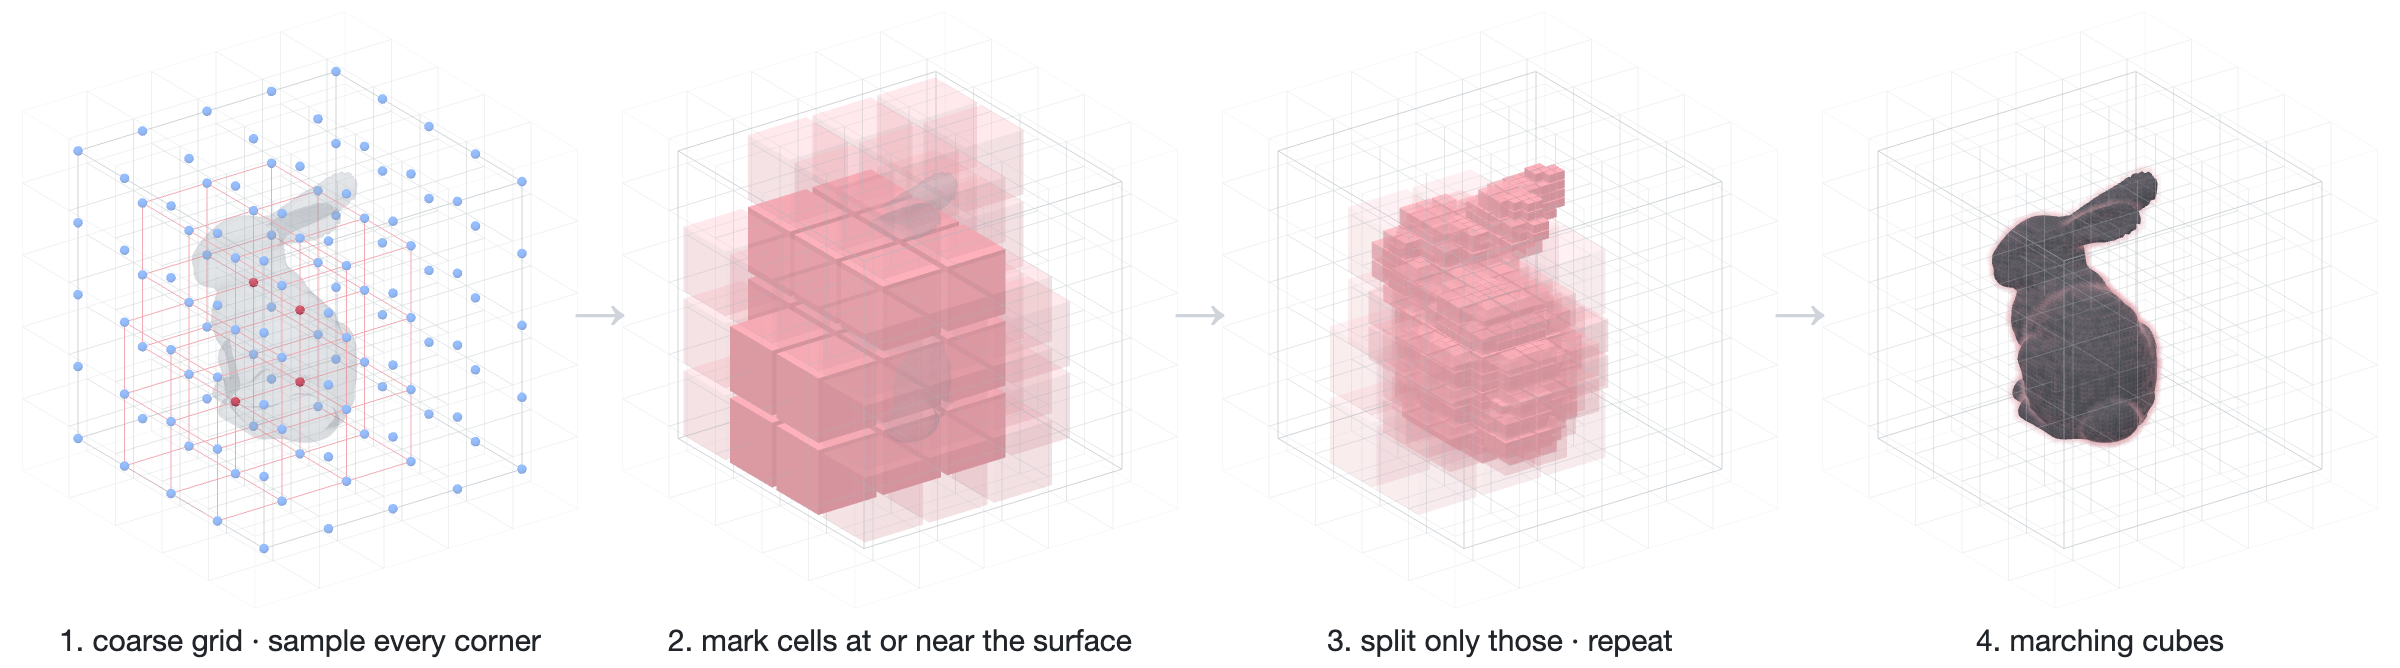
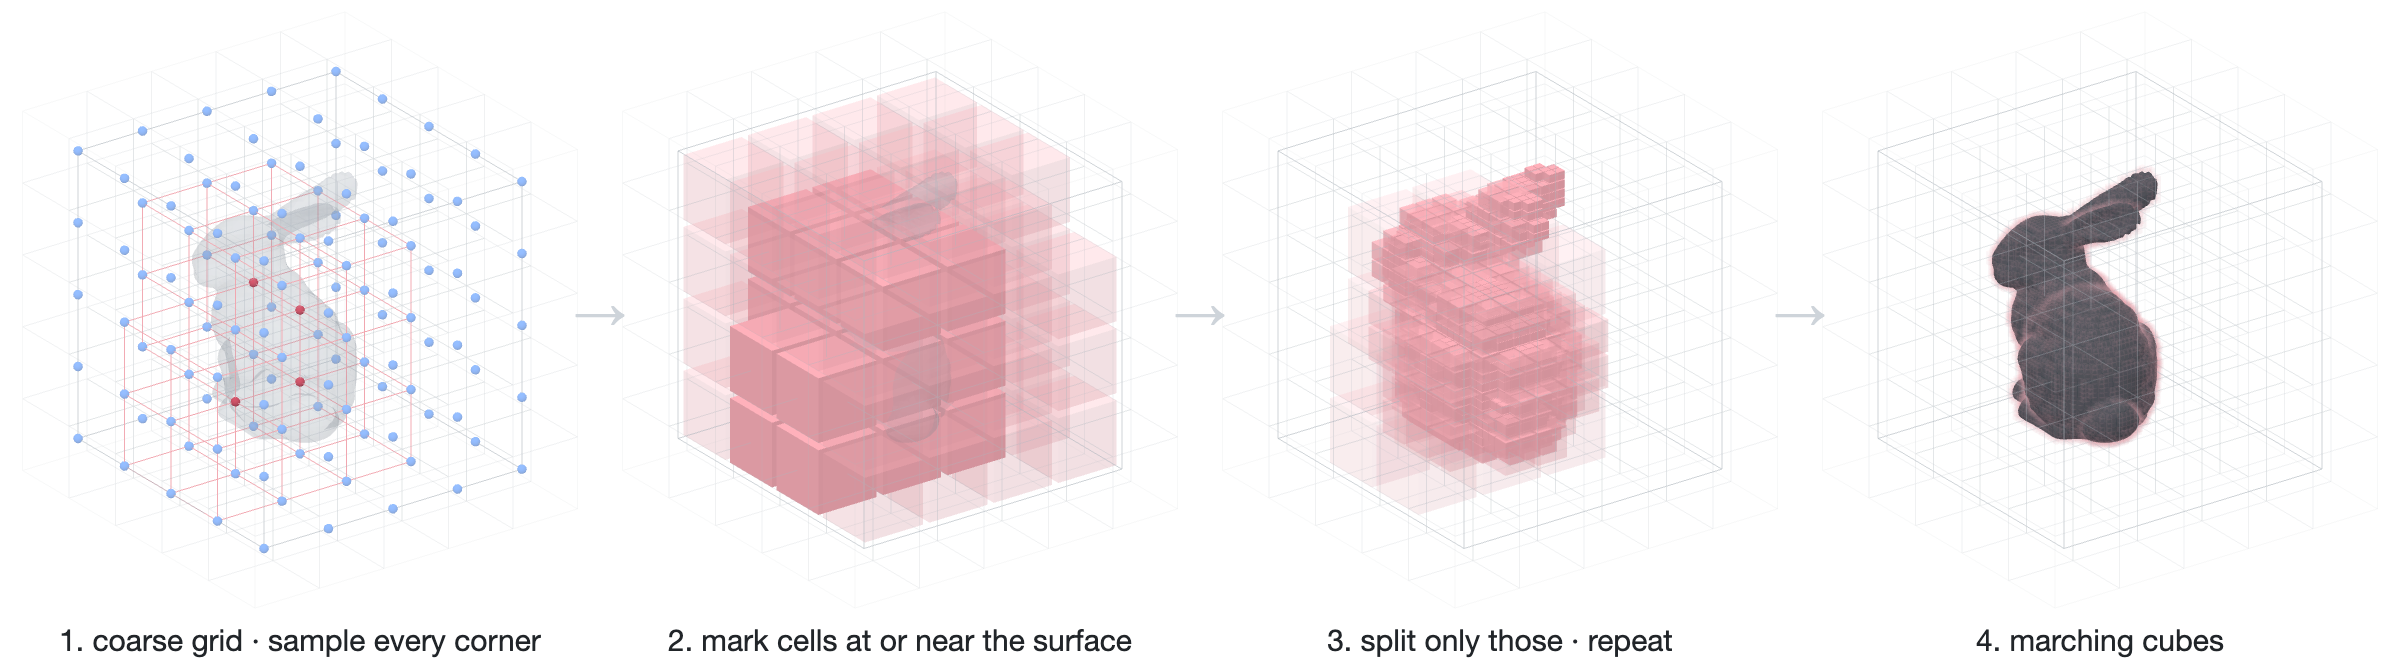
Run the coarse-to-fine figure at the safe band value
tau = sqrt(3)/2 is half a cell's space diagonal, so it is the farthest
any point in a cell can sit from its nearest corner. That makes it the
smallest band that cannot drop a cell the surface passes through. The
figure ran at 0.5, below that bound, and only happened to lose nothing
on this model.

Re-rendered figure 3 and updated every count it carries: 42 band cells
at the coarse level instead of 30, and 53,322 sampled points instead of
42,034. The mesh is unchanged, still identical to the dense one.

Also dropped the per-level walkthrough and the tau bullet. Both restated
what the figure already shows.

Claude-Session: https://claude.ai/code/session_015wdMJNMWvaNEjWFpfKEqcE

Changed region(s): [[0.4062, 0.2395, 0.4688, 0.7186], [0.2812, 0.2395, 0.3438, 0.3593]]

diff --git a/note/_posts/2026-07-26-coarse-to-fine-sdf.html b/note/_posts/2026-07-26-coarse-to-fine-sdf.html
@@ -57,16 +57,13 @@ related:
     </li>
         <ul>
             <li>
-                Start on a coarse grid and, at each finer level, evaluate only the cells the surface could pass through. The figure below runs the ladder \(4 \rightarrow 64\) cells per axis
+                Start on a coarse grid and, at each finer level, evaluate only the cells the surface could pass through. The figure below runs the ladder \(4 \rightarrow 8 \rightarrow 16 \rightarrow 32 \rightarrow 64\) cells per axis
             </li>
             <li>
-                One round, at its coarsest level. Sample all <code>125</code> points of the \(4^3\) grid — the only level ever evaluated in full. Judge its 64 cells: <b>20</b> have a sign change, another <b>30</b> lie within half a cell of the surface, and the remaining 14 are dropped. Split the 50 survivors into eight each, so <b>400</b> cells enter the next level, and sample only their corners — <code>605</code> points, not the full 729. Repeat to \(64^3\)
+                Only the coarsest level is ever sampled in full — all <code>125</code> points of the \(4^3\) grid. Every level after it sees just the corners of the cells its parent kept
             </li>
             <li>
-                Across the five levels that comes to <code>42,034</code> points, where sampling the finest grid in full would take \(65^3 =\) <code>274,625</code>. The mesh it produces is <b>identical to the dense one, vertex for vertex</b>, at 14,706 triangles
-            </li>
-            <li>
-                Why keep more cells than the surface crosses? A cell also survives when any corner lies within \(\tau h\) of the surface, where \(h\) is the cell size, so \(\tau\) measures the <b>narrow band</b> in cell widths. A feature thinner than one cell can leave all eight corners outside, and a cell dropped once never returns. The figure uses \(\tau = 0.5\) to keep the picture legible, which sits below the half-diagonal \(\tfrac{\sqrt{3}}{2}\) that would make the corner test safe on its own; it loses nothing on this model
+                Across the five levels that comes to <code>53,322</code> points, where sampling the finest grid in full would take \(65^3 =\) <code>274,625</code>. The mesh it produces is <b>identical to the dense one, vertex for vertex</b>, at 14,706 triangles
             </li>
             <li>
                 What about the points nobody sampled? They inherit the value from the level above, so the grid stays complete and marching cubes runs on it unchanged
@@ -74,7 +71,7 @@ related:
         </ul>
     <figure>
         <img src="/img/coarse-to-fine-sdf/coarse-to-fine-sdf-2.png" width="100%" onerror=handle_image_error(this)>
-        <figcaption>A \(4^3\) grid around the bunny; grey is the dense \(64^3\) reference mesh. 1: only 4 of the 125 points are red. The outline marks the 20 cells that own one. 2: those 20 (solid) plus 30 within half a cell (light). 3: four of the five levels, each at its own cell size — bigger and lighter the coarser the level. Only crossing cells are painted here; the band cells kept alongside them would fill the shape in. 4: the mesh from the finest level.</figcaption>
+        <figcaption>A \(4^3\) grid around the bunny; grey is the dense \(64^3\) reference mesh. 1: 4 of the 125 points are red, and the outline marks the 20 cells that own one. 2: those 20 (solid) plus 42 within half a cell diagonal (light) — the margin that keeps parts thinner than one cell. 3: four levels at once, each at its own cell size — bigger and lighter the coarser the level. Only crossing cells are painted.</figcaption>
     </figure>
     <!-- <br>
     <li>

diff --git a/scripts/coarse-to-fine-sdf/export_all.py b/scripts/coarse-to-fine-sdf/export_all.py
@@ -215,10 +215,12 @@ if "2" in FIGURES:
 # A cell is kept when the surface crosses it OR when it lies within BAND cells of the surface.
 # The band is what saves thin parts: an ear is thinner than a coarse cell, so all eight corners
 # can be outside and the sign test alone drops it -- and a dropped cell never comes back.
-# latent-shapes uses 2.5 cells plus a one-cell grow, which at a 4^3 start marks every cell;
-# half a cell keeps the picture readable and still covers the whole surface here.
+# sqrt(3)/2 is half a cell's space diagonal, so it is the farthest any point inside a cell can
+# sit from its nearest corner. That makes it the smallest band that cannot drop a cell the
+# surface passes through, and anything wider only pulls in cells the surface misses:
+# latent-shapes uses 2.5 cells plus a one-cell grow, which at a 4^3 start marks every cell.
 LADDER = [4, 8, 16, 32, 64]
-BAND = 0.5
+BAND = np.sqrt(3) / 2
 
 
 def refine(mask):
